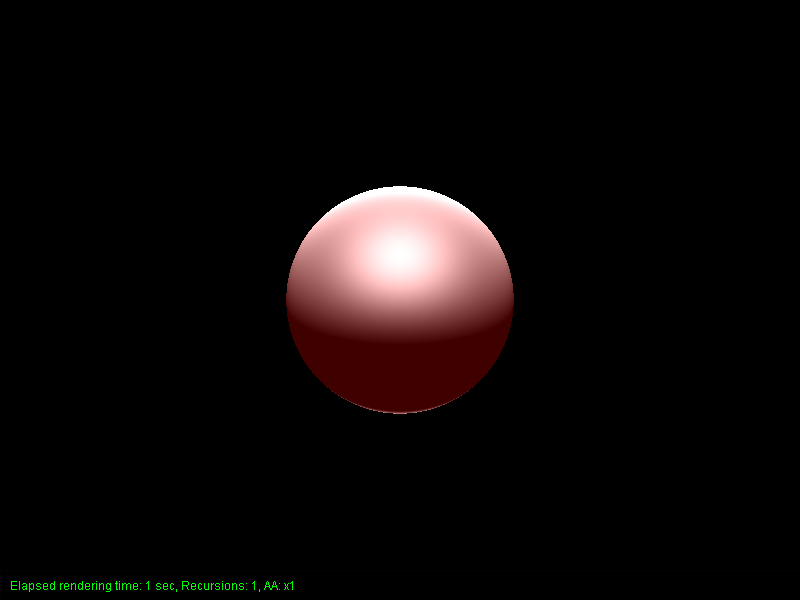
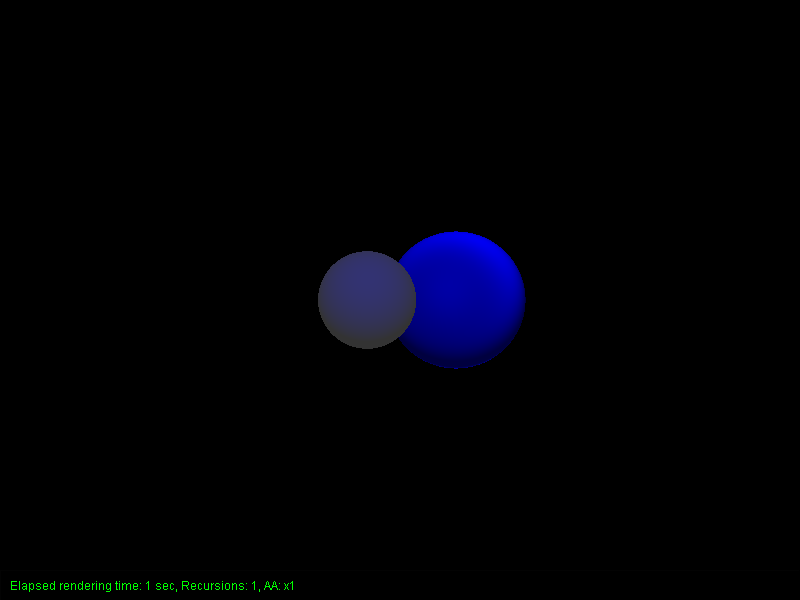
merge master into phong

Changed region(s): [[0.3438, 0.3, 0.6562, 0.69]]

diff --git a/VCG_Raytracer/src/raytracer/Raytracer.java b/VCG_Raytracer/src/raytracer/Raytracer.java
@@ -22,6 +22,7 @@ import scene.Shape;
 import scene.camera.Camera;
 import scene.light.Light;
 import scene.material.Lambert;
+import scene.material.Material;
 import scene.material.Phong;
 import ui.Window;
 import utils.*;
@@ -125,19 +126,16 @@ public class Raytracer {
 		ArrayList<Shape> shapeList = mScene.getObjects();
 		ArrayList<Light> lightList = mScene.getLights();
 
-		// Prepare materials
-		Lambert lambert = new Lambert(RgbColor.WHITE, 0.5f, 0.5f);
-		Phong phong = new Phong(RgbColor.RED, 0.5f, 0.8f, 0.7f, 2);
-
 		// Iterate through every pixel
 		for(int y = 0; y < screenHeight; y++) {
 			for (int x = 0; x < screenWidth; x++) {
 				float nearest = 99999;
 				Shape nearestShape = null;
 				RgbColor pixelColor = null;
-				RgbColor pixelColorAmbient;
+				RgbColor pixelColorAmbient = null;
 				RgbColor pixelColorDiffuse = null;
 				RgbColor pixelColorPhong = null;
+				Material shapeMaterial = null;
 
 				// First transform pixel to world coordinates
 				deltaX = (float) ((2*(x+0.5)/screenWidth-1)*(width/2));
@@ -166,40 +164,39 @@ public class Raytracer {
 						}
 					}
 				}
-				// Depending on the material we set the color on hit
+				// Depending on the material calculate the pixel color
 				if (tempIntersection != null && tempIntersection.isHit() && nearestShape != null) {
+					shapeMaterial = nearestShape.getMaterial();
 					for (int i = 0; i < lightList.size(); i++) {
-						switch (nearestShape.getMaterial()) {
-							case "normal":
-								pixelColor = RgbColor.WHITE;
-								break;
+						switch (nearestShape.getMaterial().toString().toLowerCase()) {
 							case "lambert":
-								// For every light we sum up the pixel colors
-								pixelColorAmbient = lambert.getAmbient();
 								pixelColorDiffuse = (pixelColorDiffuse == null)
-										? lambert.getDiffuse(lightList.get(i), tempIntersection)
-										: pixelColorDiffuse.add(lambert.getDiffuse(lightList.get(i), tempIntersection));
-								// Then we add the sum to the ambient
-								if (i == lightList.size()-1)
-									pixelColor = (pixelColorDiffuse != null)
-											? pixelColorAmbient.add(pixelColorDiffuse)
-											: pixelColorAmbient;
+										? shapeMaterial.getDiffuse(lightList.get(i), tempIntersection)
+										: pixelColorDiffuse.add(shapeMaterial.getDiffuse(lightList.get(i), tempIntersection));
 								break;
-							case "phong":
+								case "phong":
 								// For every light we sum up the pixel colors
-								pixelColorAmbient = phong.getAmbient();
 								pixelColorPhong = (pixelColorPhong == null)
-										? phong.getDiffuseSpecular(lightList.get(i), camera, tempIntersection)
-										: pixelColorPhong.add(phong.getDiffuseSpecular(lightList.get(i), camera, tempIntersection));
-								// Then we add the sum to the ambient
-								if (i == lightList.size()-1)
-									pixelColor = (pixelColorPhong != null)
-											? pixelColorAmbient.add(pixelColorPhong)
-											: pixelColorAmbient;
-								break;
+										? shapeMaterial.getDiffuseSpecular(lightList.get(i), camera, tempIntersection)
+										: pixelColorPhong.add(shapeMaterial.getDiffuseSpecular(lightList.get(i), camera, tempIntersection));
 							default:
 								// do nothing
 						}
+					}
+
+					// Then we add the sum to the ambient
+					switch (nearestShape.getMaterial().toString().toLowerCase()) {
+						case "lambert":
+							pixelColorAmbient = shapeMaterial.getAmbient();
+							pixelColor = (pixelColorDiffuse != null)
+									? pixelColorAmbient.add(pixelColorDiffuse)
+									: pixelColorAmbient;
+							break;
+						case "phong":
+							pixelColorAmbient = shapeMaterial.getAmbient();
+							pixelColor = (pixelColorPhong != null)
+									? pixelColorAmbient.add(pixelColorPhong)
+									: pixelColorAmbient;
 					}
 					mRenderWindow.setPixel(mRenderWindow.getBufferedImage(), pixelColor, new Vec2(x, y));
 				}

diff --git a/VCG_Raytracer/src/Main.java b/VCG_Raytracer/src/Main.java
@@ -25,6 +25,8 @@
 
 import raytracer.Raytracer;
 import scene.camera.Camera;
+import scene.material.Lambert;
+import scene.material.Phong;
 import ui.Window;
 import scene.Scene;
 import utils.RgbColor;
@@ -87,6 +89,10 @@ public class Main {
 
     static public Camera mCamera;
 
+    /** MATERIALS **/
+    static Lambert lambertWhite = new Lambert(RgbColor.WHITE, 0.2f, 0.5f);
+    static Phong phongBlue = new Phong(RgbColor.BLUE, 0.5f, 0.8f, 1f, 2);
+
     /** DEBUG **/
     static final boolean SHOW_PARAM_LABEL = true;
 
@@ -118,9 +124,9 @@ public class Main {
     }
 
     private static void setupLights(Scene renderScene) {
-        renderScene.createPointLight(new Vec3 (0,5,-1), new RgbColor(RgbColor.WHITE.colors));
-        //renderScene.createPointLight(new Vec3 (0,5,0), new RgbColor(RgbColor.GREEN.colors));
-        //renderScene.createPointLight(new Vec3 (0,0,5), new RgbColor(RgbColor.BLUE.colors));
+        //renderScene.createPointLight(new Vec3 (0,3,-1), new RgbColor(RgbColor.GREEN.colors));
+        renderScene.createPointLight(new Vec3 (0,3,0), new RgbColor(RgbColor.BLUE.colors));
+        //renderScene.createPointLight(new Vec3 (0,0,0), new RgbColor(RgbColor.BLUE.colors));
     }
 
     private static void setupCameras(Scene renderScene) {
@@ -128,8 +134,8 @@ public class Main {
     }
 
     private static void setupObjects(Scene renderScene) {
-        renderScene.createSphere(new Vec3(0,0,-3), 1f, "phong");
-        //renderScene.createSphere(new Vec3(1,0,-6), 1.25f, "phong");
+        renderScene.createSphere(new Vec3(-0.5f,0,-5), 0.75f, lambertWhite);
+        renderScene.createSphere(new Vec3(1,0,-6), 1.25f, phongBlue);
     }
 
     private static void setupCornellBox(Scene renderScene) {

diff --git a/VCG_Raytracer/src/scene/Shape.java b/VCG_Raytracer/src/scene/Shape.java
@@ -1,6 +1,7 @@
 package scene;
 
 import ray.Ray;
+import scene.material.Material;
 import utils.algebra.Matrix4x4;
 import utils.algebra.Vec3;
 
@@ -11,10 +12,10 @@ import utils.algebra.Vec3;
 public class Shape extends SceneObject {
 
     protected Vec3 center;
-    protected String material;
+    protected Material material;
     protected Matrix4x4 transformMatrix = new Matrix4x4();
 
-    public Shape(Vec3 _center, String _material) {
+    public Shape(Vec3 _center, Material _material) {
         this.transformMatrix.translateXYZ(_center);
         this.center = transformMatrix.multVec3(new Vec3(0,0,0), true);
         this.material = _material;
@@ -27,11 +28,11 @@ public class Shape extends SceneObject {
         this.center = _center;
     }
 
-    public String getMaterial() {
+    public Material getMaterial() {
         return material;
     }
 
-    public void setMaterial(String material) {
+    public void setMaterial(Material material) {
         this.material = material;
     }
 

diff --git a/VCG_Raytracer/src/scene/material/Material.java b/VCG_Raytracer/src/scene/material/Material.java
@@ -1,11 +1,14 @@
 package scene.material;
 
+import scene.camera.Camera;
+import scene.light.Light;
+import utils.Intersection;
 import utils.RgbColor;
 
 /**
  * Base class for materials
  */
-public abstract class Material {
+public class Material {
 
     protected RgbColor mAmbientLight;
     protected float mDiffuseCoefficient;
@@ -17,4 +20,20 @@ public abstract class Material {
         this.mAmbientCoefficient = mAmbientCoefficient;
     }
 
+    public RgbColor getAmbient() {
+        return RgbColor.WHITE;
+    }
+
+    // Returning the name of the material
+    public String toString() {
+        return this.getClass().getSimpleName();
+    }
+
+    public RgbColor getDiffuse(Light light, Intersection tempIntersection) {
+        return RgbColor.BLACK;
+    }
+
+    public RgbColor getDiffuseSpecular(Light light, Camera camera, Intersection tempIntersection) {
+        return RgbColor.BLACK;
+    }
 }

diff --git a/VCG_Raytracer/src/scene/Scene.java b/VCG_Raytracer/src/scene/Scene.java
@@ -2,6 +2,7 @@ package scene;
 
 import scene.light.Light;
 import scene.light.PointLight;
+import scene.material.Material;
 import utils.RgbColor;
 import utils.algebra.Vec3;
 import utils.io.Log;
@@ -28,7 +29,7 @@ public class Scene {
     public ArrayList<Shape> getObjects() { return objects; }
     public ArrayList<Light> getLights() { return lights; }
 
-    public void createSphere(Vec3 _center, Float _radius, String _material) {
+    public void createSphere(Vec3 _center, Float _radius, Material _material) {
         Sphere sphere = new Sphere(_center, _radius, _material);
         objects.add(sphere);
     }

diff --git a/VCG_Raytracer/src/scene/Sphere.java b/VCG_Raytracer/src/scene/Sphere.java
@@ -1,6 +1,7 @@
 package scene;
 
 import ray.Ray;
+import scene.material.Material;
 import utils.algebra.Vec3;
 
 /**
@@ -17,7 +18,7 @@ public class Sphere extends Shape {
     private Vec3 normal;
 
     /** Constructor **/
-    public Sphere(Vec3 _center, Float _radius, String _material) {
+    public Sphere(Vec3 _center, Float _radius, Material _material) {
         super(_center, _material);
         this.radius = _radius;
     }
